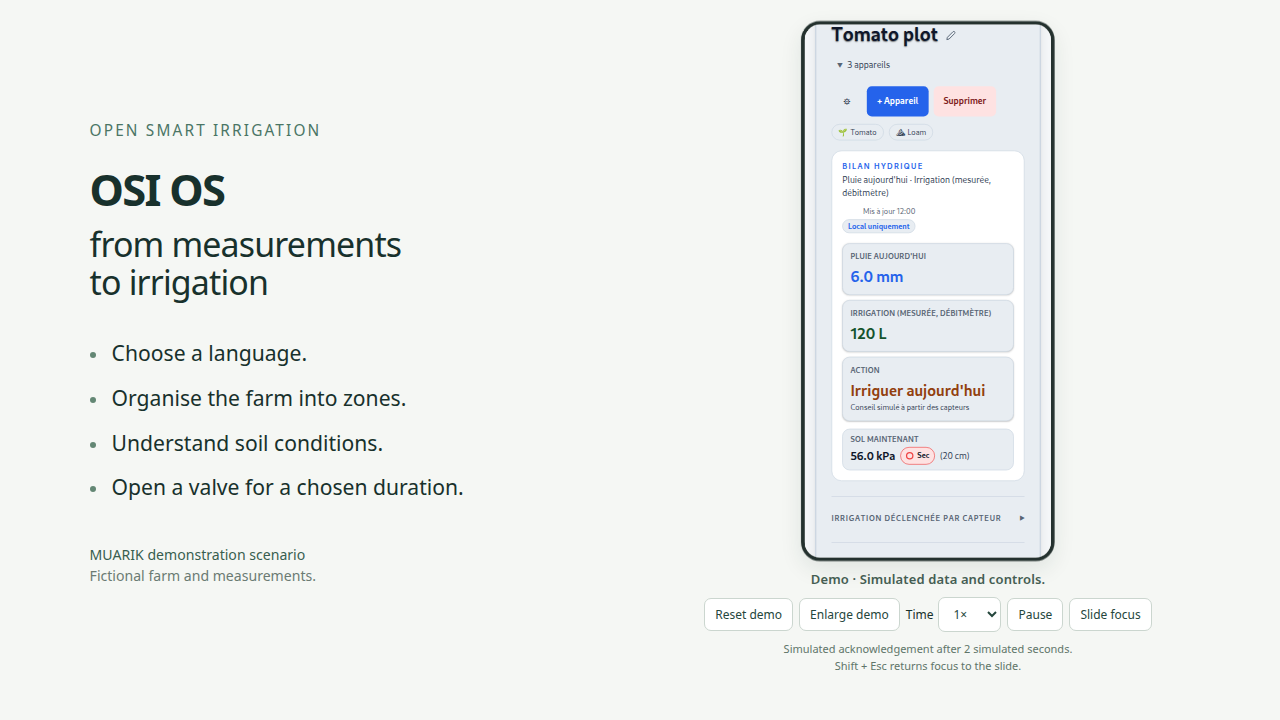
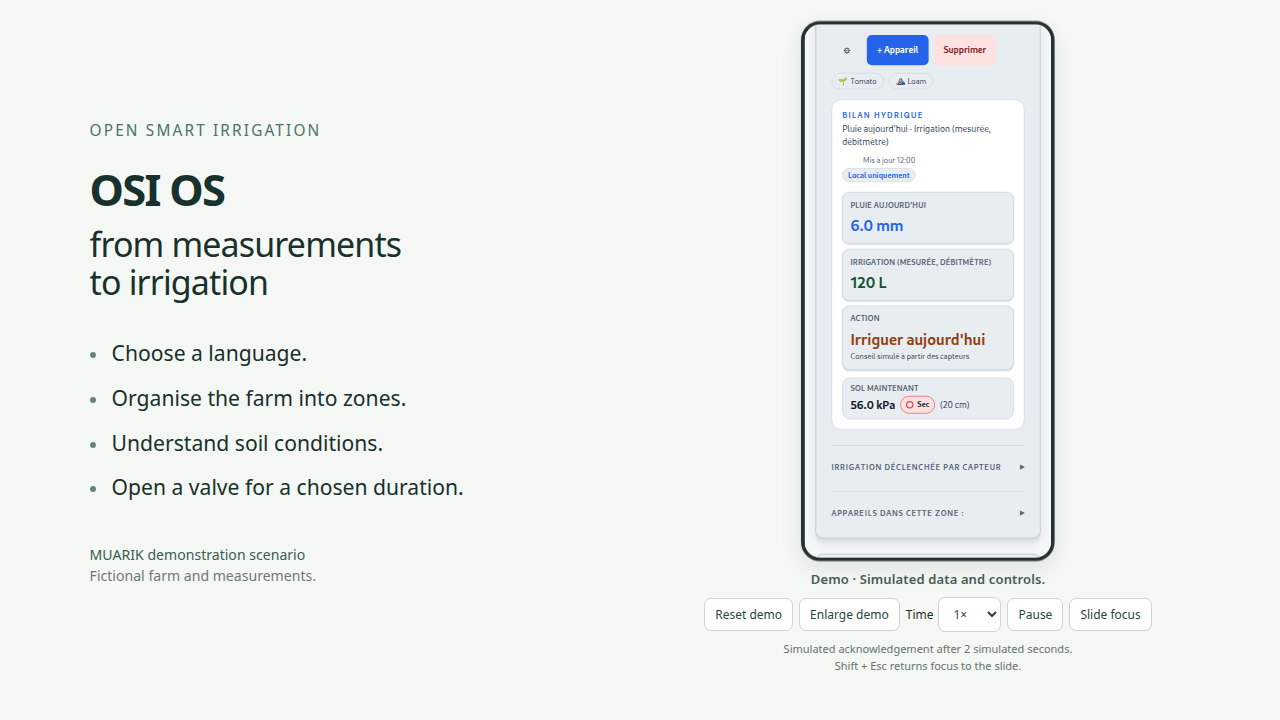
test(simulator): follow main's one-time plan states and collapsed header everywhere
Main (#672) shows a fired one-time plan as "Fired" or "Valve reported
open" instead of the dispatch line, so the release round trip waits for
those labels. The guide test now polls for the relabelled skip target,
which reaches the host by postMessage after the settings response. The
presentation specs open Add, Settings and Account through the shared
header helper, now in demo/tests/header.ts, and the language-slot test
checks main's header layout instead of the replaced geometry.

Changed region(s): [[0.6562, 0.0306, 0.7812, 0.3972], [0.6562, 0.4278, 0.7812, 0.6722], [0.6562, 0.7028, 0.7812, 0.7333]]

diff --git a/web/react-gui/demo/tests/browser.spec.ts b/web/react-gui/demo/tests/browser.spec.ts
@@ -1,4 +1,5 @@
 import {test, expect} from '@playwright/test';
+import {clickHeaderControl, openSettingsFromHeader} from './header';
 let pageErrors: string[] = [];
 let outsideRequests: string[] = [];
 test.beforeEach(async ({page}) => {
@@ -28,7 +29,7 @@ test('real app starts with fictional farm, two zones, offline translations', asy
 
 test('zone creation, assignment, removal and language preserve existing farm', async ({page}) => {
   await page.goto('/'); const app = page.frameLocator('#app');
-  await app.getByRole('button', {name: /^Add/}).click();
+  await clickHeaderControl(app,app.getByRole('button',{name:/^Add/}));
   await app.getByRole('menuitem', {name: /Zone/}).click();
   await app.getByLabel('Zone Name').fill('Temporary bed');
   // Change language while a real form remains mounted, preserving its value.
@@ -183,7 +184,7 @@ test('reveal slide departure pauses clock, return retains state and keyboard sta
   await page.goto('/demo/reveal.html');await page.getByRole('button',{name:'next slide'}).click();
   const host=page.frameLocator('#osi-demo'),app=host.frameLocator('#app');
   await expect(app.getByRole('button',{name:'English'})).toBeVisible();
-  await app.getByRole('button',{name:/^Add/}).click();await app.getByRole('menuitem',{name:/Zone/}).click();
+  await clickHeaderControl(app,app.getByRole('button',{name:/^Add/}));await app.getByRole('menuitem',{name:/Zone/}).click();
   await app.getByLabel('Zone Name').fill('Trial');await app.getByLabel('Zone Name').press('Space');await app.getByLabel('Zone Name').press('ArrowLeft');
   await expect(page).toHaveURL(/#\/1$/);await expect(app.getByLabel('Zone Name')).toHaveValue('Trial ');
   await app.getByRole('button',{name:'Cancel',exact:true}).click();
@@ -201,7 +202,7 @@ test('reveal slide departure pauses clock, return retains state and keyboard sta
 
 test('existing device registration and SWT trigger configuration', async ({page}) => {
   await page.goto('/');const app=page.frameLocator('#app');
-  await app.getByRole('button',{name:/^Add/}).click();await app.getByRole('menuitem',{name:'Add device',exact:true}).click();
+  await clickHeaderControl(app,app.getByRole('button',{name:/^Add/}));await app.getByRole('menuitem',{name:'Add device',exact:true}).click();
   await app.getByLabel('Device Name',{exact:true}).fill('Practice probe');await app.getByLabel('DevEUI',{exact:true}).fill('00000000000000B0');
   await app.getByRole('dialog').getByRole('button',{name:'Add Device',exact:true}).click();
   await expect(app.getByText('Practice probe',{exact:true})).toBeVisible();
@@ -239,20 +240,17 @@ test('all shipped languages work offline and preserve the open zone', async ({pa
 });
 
 
-test('native language button fills the dashboard slot below Add beside Account', async ({page}) => {
+test('native language button stays in the app header beside the collapsed menu', async ({page}) => {
   await page.goto('/');const app=page.frameLocator('#app');
   await expect(app.locator('.demo-language')).toHaveCount(0);
   await expect(app.getByText('MUARIK · Simulated farm',{exact:true})).toHaveCount(0);
   const header=app.getByRole('banner');
-  const add=await header.getByRole('button',{name:'Add',exact:true}).boundingBox();
-  const language=await header.getByRole('button',{name:'English',exact:true}).boundingBox();
-  const account=await header.getByRole('button',{name:'Account',exact:true}).boundingBox();
-  expect(language!.x).toBeCloseTo(add!.x,0);
-  expect(language!.y).toBeGreaterThan(add!.y+add!.height);
-  expect(language!.y).toBeCloseTo(account!.y,0);
-  expect(language!.width).toBeCloseTo(account!.width,0);
-  expect(language!.height).toBeCloseTo(account!.height,0);
-  expect(language!.x+language!.width).toBeLessThan(account!.x);
+  // Main's shared header (#695) keeps Add and Account in the Menu panel at phone width; the language button stays outside it.
+  const language=header.getByRole('button',{name:'English',exact:true});
+  await expect(language).toBeVisible();
+  await clickHeaderControl(app,header.getByRole('button',{name:'Account',exact:true}));
+  await expect(header.getByRole('button',{name:'Add',exact:true})).toBeVisible();
+  await expect(language).toBeVisible();
 });
 
 
@@ -293,7 +291,7 @@ test('valve text and compact tooltip work in every language, with unclipped iden
 
 test('settings hides all explicitly experimental module controls', async ({page}) => {
   await page.goto('/');const app=page.frameLocator('#app');
-  await app.getByRole('link',{name:'Settings',exact:true}).click();
+  await openSettingsFromHeader(app,'Settings');
   await expect(app.locator('[data-experimental-module="true"]')).toHaveCount(5);
   for(const label of ['Prediction advisory','Data view','Network','Gateway','Field journal']) {
     await expect(app.getByRole('group',{name:label,exact:true})).toHaveCount(0);
@@ -359,7 +357,7 @@ test('long translations wrap across all languages, including Luganda settings', 
     }
     current=label;
   }
-  await app.getByRole('link',{name:'Settings',exact:true}).click();
+  await openSettingsFromHeader(app,'Settings');
   await app.getByRole('button',{name:'English',exact:true}).click();
   await app.getByRole('menuitem',{name:'Luganda',exact:true}).click();
   await expectTextToFit();

diff --git a/web/react-gui/demo/tests/public/release.spec.ts b/web/react-gui/demo/tests/public/release.spec.ts
@@ -2,7 +2,7 @@ import {expect, test, type Locator, type Page} from '@playwright/test';
 import {readFile} from 'node:fs/promises';
 import {PUBLIC_EPOCH} from '../../fixtures';
 import {expectSwtThreshold, setCustomSwtThreshold} from './swt-threshold';
-import {clickHeaderControl, openSettingsFromHeader} from './header';
+import {clickHeaderControl, openSettingsFromHeader} from '../header';
 
 test.setTimeout(120_000);
 
@@ -140,7 +140,8 @@ async function advanceUntilOnceSent(page: Page, app: ReturnType<Page['frameLocat
     const row = dialog.getByRole('listitem').filter({hasText: label});
     const dispatch = await row.innerText();
     await dialog.getByRole('button', {name: 'Close'}).click();
-    if (/Dispatch: Sent to the radio network/i.test(dispatch)) return;
+    // Main (#672) shows a fired one-time plan as "Fired", or "Valve reported open" once the valve confirms it.
+    if (/\b(?:Fired|Valve reported open)\b/.test(dispatch)) return;
     await advanceNextEvent(page);
   }
   throw new Error(`No event sent the one-time plan ${label} within 40 simulation events`);
@@ -405,7 +406,7 @@ test('plan-roundtrip saves WEEKLY and ONCE plans, fires, and retains a valid pla
   const recent = app.locator('section').filter({has: app.getByRole('heading', {name: 'Recent irrigations', exact: true})});
   await expect(recent.getByRole('listitem').filter({hasText: /Scheduled \(on valve\)/i}).first()).toBeVisible();
   await valve.getByRole('button', {name: 'Schedule', exact: true}).click();
-  await expect(app.getByRole('dialog').getByRole('listitem').filter({hasText: 'Release once'})).toContainText(/Dispatch: Sent to the radio network/i);
+  await expect(app.getByRole('dialog').getByRole('listitem').filter({hasText: 'Release once'})).toContainText(/\b(?:Fired|Valve reported open)\b/);
   await app.getByRole('dialog').getByRole('button', {name: 'Close'}).click();
   expectOrdinaryFlowClean(monitor);
 });

diff --git a/web/react-gui/demo/tests/polish.spec.ts b/web/react-gui/demo/tests/polish.spec.ts
@@ -1,4 +1,5 @@
 import {test,expect} from '@playwright/test';
+import {clickHeaderControl} from './header';
 
 test.beforeEach(async({page})=>{await page.goto('/');});
 
@@ -17,7 +18,7 @@ test('expanded valve device keeps a readable title and translated actions keep w
 
 test('create form has padding, initial focus and feedback; collapsed zone can be deleted',async({page})=>{
   const app=page.frameLocator('#app');
-  await app.getByRole('button',{name:/^Add/}).click();await app.getByRole('menuitem',{name:'Add zone',exact:true}).click();
+  await clickHeaderControl(app,app.getByRole('button',{name:/^Add/}));await app.getByRole('menuitem',{name:'Add zone',exact:true}).click();
   await expect(app.getByLabel('Zone Name')).toBeFocused();
   expect(await app.getByRole('button',{name:'Create Irrigation Zone',exact:true}).evaluate(el=>parseFloat(getComputedStyle(el).paddingLeft))).toBeGreaterThanOrEqual(12);
   await app.getByLabel('Zone Name').fill('Polish trial');await app.getByRole('button',{name:'Create Irrigation Zone',exact:true}).click();
@@ -32,7 +33,7 @@ test('create form has padding, initial focus and feedback; collapsed zone can be
 test('demo account actions preserve the session and give dismissible feedback',async({page})=>{
   const app=page.frameLocator('#app');
   for(const action of ['Log out','OSI Server']) {
-    await app.getByRole('button',{name:/Account/}).click();await app.getByRole('menuitem',{name:action,exact:true}).click();
+    await clickHeaderControl(app,app.getByRole('button',{name:/Account/}));await app.getByRole('menuitem',{name:action,exact:true}).click();
     await expect(app.getByRole('heading',{name:'OSI OS',exact:true})).toBeVisible();
     await expect(page.locator('#host-notice')).toContainText('not simulated');
     await page.getByRole('button',{name:'Dismiss notice',exact:true}).click();await expect(page.locator('#host-notice')).toBeEmpty();

diff --git a/web/react-gui/demo/tests/public/guide.spec.ts b/web/react-gui/demo/tests/public/guide.spec.ts
@@ -1,6 +1,6 @@
 import {expect, test, type Locator, type Page} from '@playwright/test';
 import {mkdir} from 'node:fs/promises';
-import {openSettingsFromHeader} from './header';
+import {openSettingsFromHeader} from '../header';
 
 test.setTimeout(120_000);
 
@@ -145,8 +145,8 @@ test('guide skip target is fresh, locale-aware, reset clears it and close restor
   await app.getByLabel('Fuseau horaire de la passerelle').fill('Europe/Zurich');
   await app.getByRole('button', {name: 'Enregistrer', exact: true}).click();
   await expect(app.getByText('Fuseau horaire enregistré', {exact: true})).toBeVisible();
-  const zoneTime = await page.locator('#skip-event [data-skip-time]').innerText();
-  expect(zoneTime).not.toBe(kampalaTime);
+  // The host relabels the skip target after the app's settings response reaches it by postMessage.
+  await expect.poll(() => page.locator('#skip-event [data-skip-time]').innerText()).not.toBe(kampalaTime);
   const eventAtBeforeJump = await page.locator('#skip-event').getAttribute('data-event-at');
   expect(eventAtBeforeJump).not.toBeNull();
   await page.locator('#skip-event').click();

diff --git a/web/react-gui/demo/tests/public/invitation.spec.ts b/web/react-gui/demo/tests/public/invitation.spec.ts
@@ -1,6 +1,6 @@
 import {expect, test} from '@playwright/test';
 import {expectSwtThreshold} from './swt-threshold';
-import {openSettingsFromHeader} from './header';
+import {openSettingsFromHeader} from '../header';
 
 const preview = '/website-demo/preview.html';
 const invitation = '#osi-simulator-invitation';

diff --git a/web/react-gui/demo/tests/public/stable-modules.spec.ts b/web/react-gui/demo/tests/public/stable-modules.spec.ts
@@ -1,5 +1,5 @@
 import {expect, test, type Page} from '@playwright/test';
-import {clickHeaderControl, openSettingsFromHeader} from './header';
+import {clickHeaderControl, openSettingsFromHeader} from '../header';
 
 type Monitor = {
   pageErrors: string[];

diff --git a/web/react-gui/demo/tests/public/layout.spec.ts b/web/react-gui/demo/tests/public/layout.spec.ts
@@ -1,6 +1,6 @@
 import {expect, test} from '@playwright/test';
 import {expectSwtThreshold} from './swt-threshold';
-import {openSettingsFromHeader} from './header';
+import {openSettingsFromHeader} from '../header';
 
 test.setTimeout(90_000);
 

diff --git a/web/react-gui/demo/tests/public/registration.spec.ts b/web/react-gui/demo/tests/public/registration.spec.ts
@@ -1,5 +1,5 @@
 import {expect, test, type Page} from '@playwright/test';
-import {clickHeaderControl} from './header';
+import {clickHeaderControl} from '../header';
 
 test.setTimeout(120_000);
 
